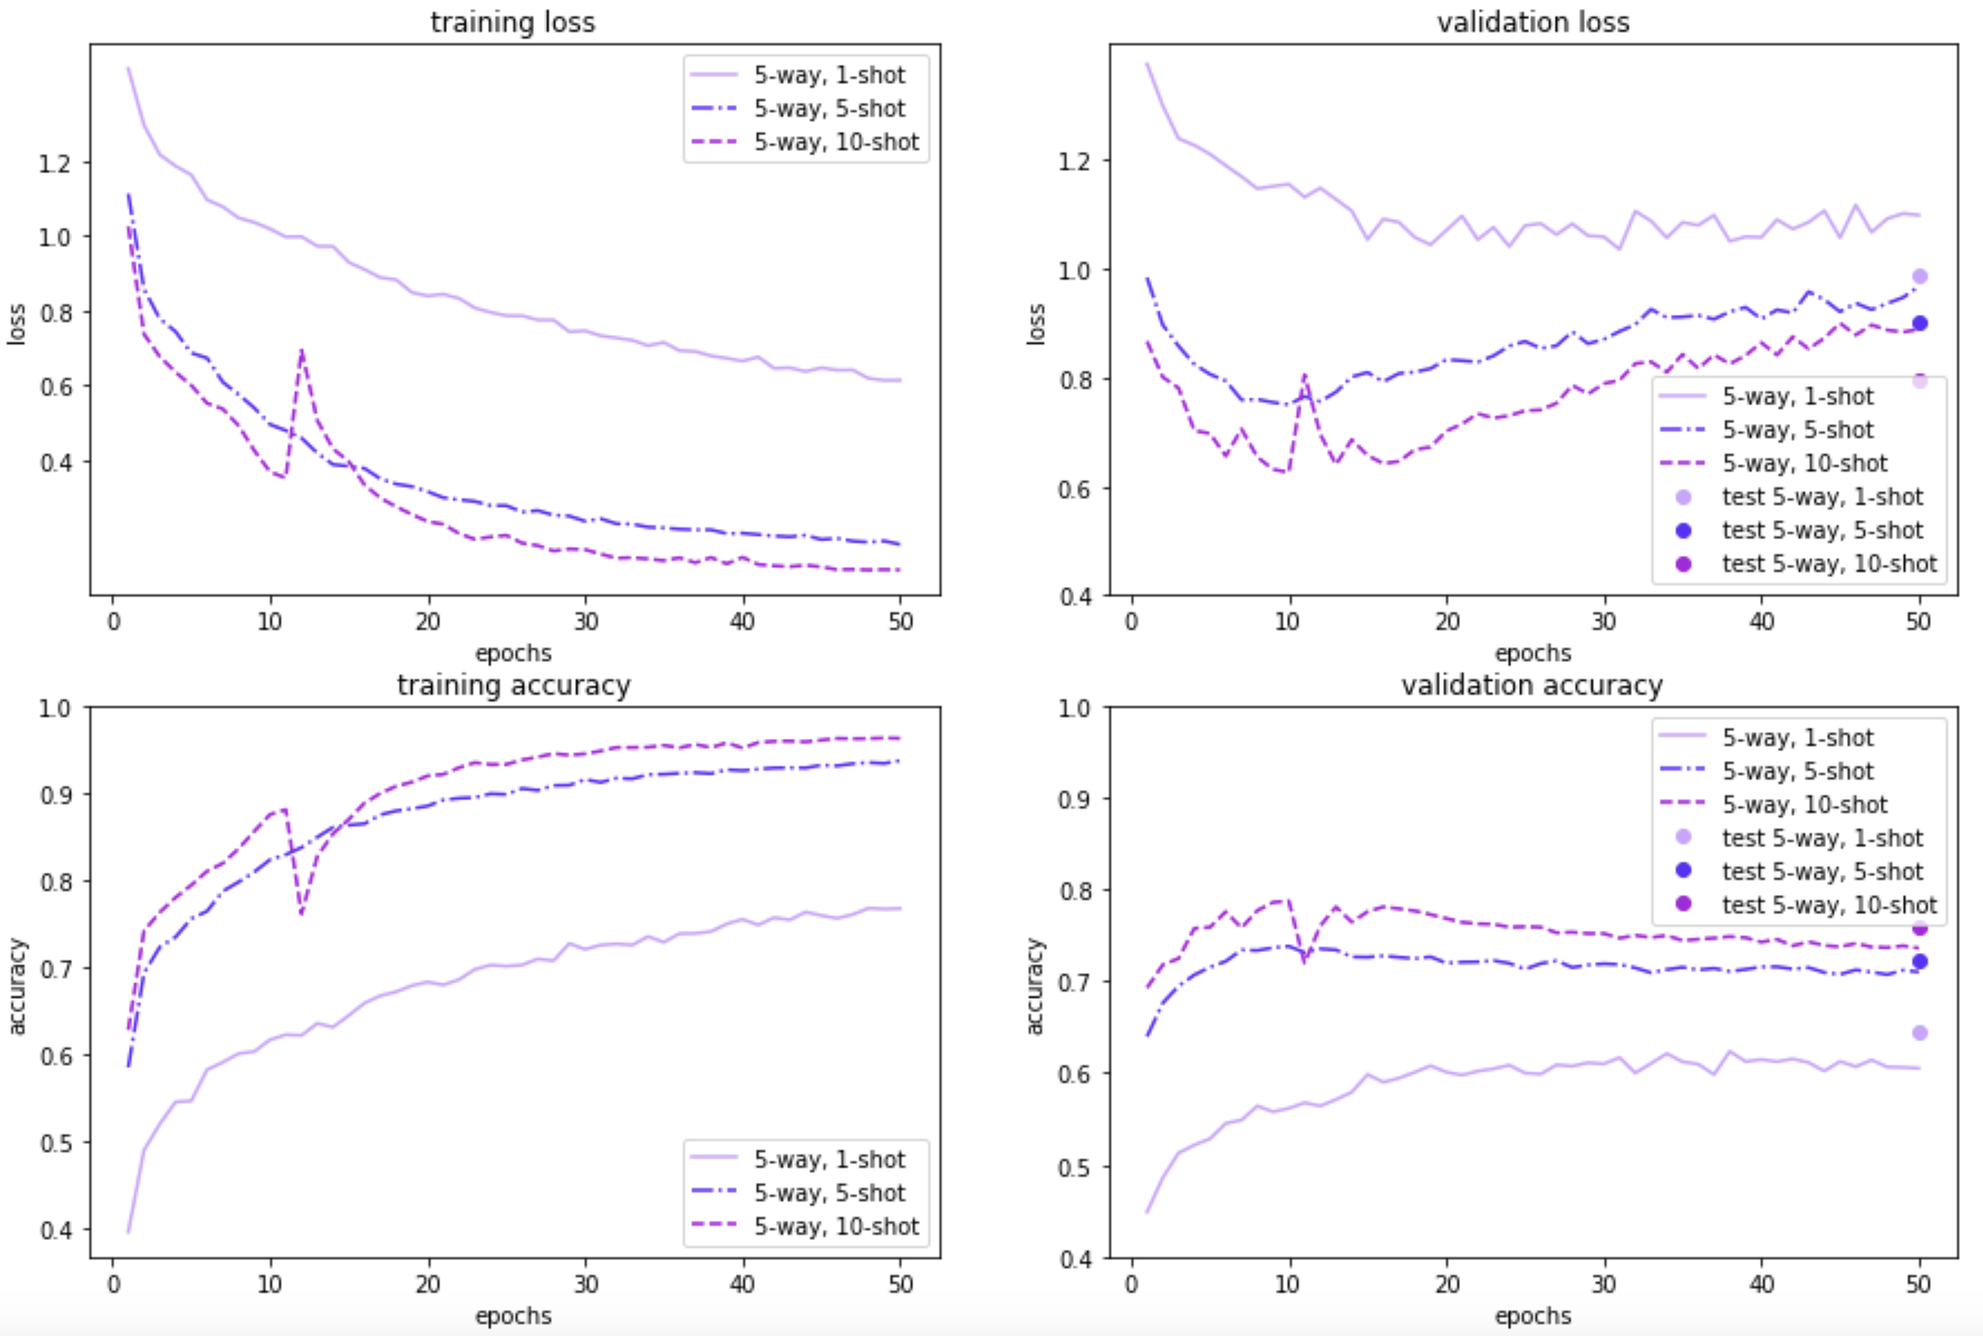
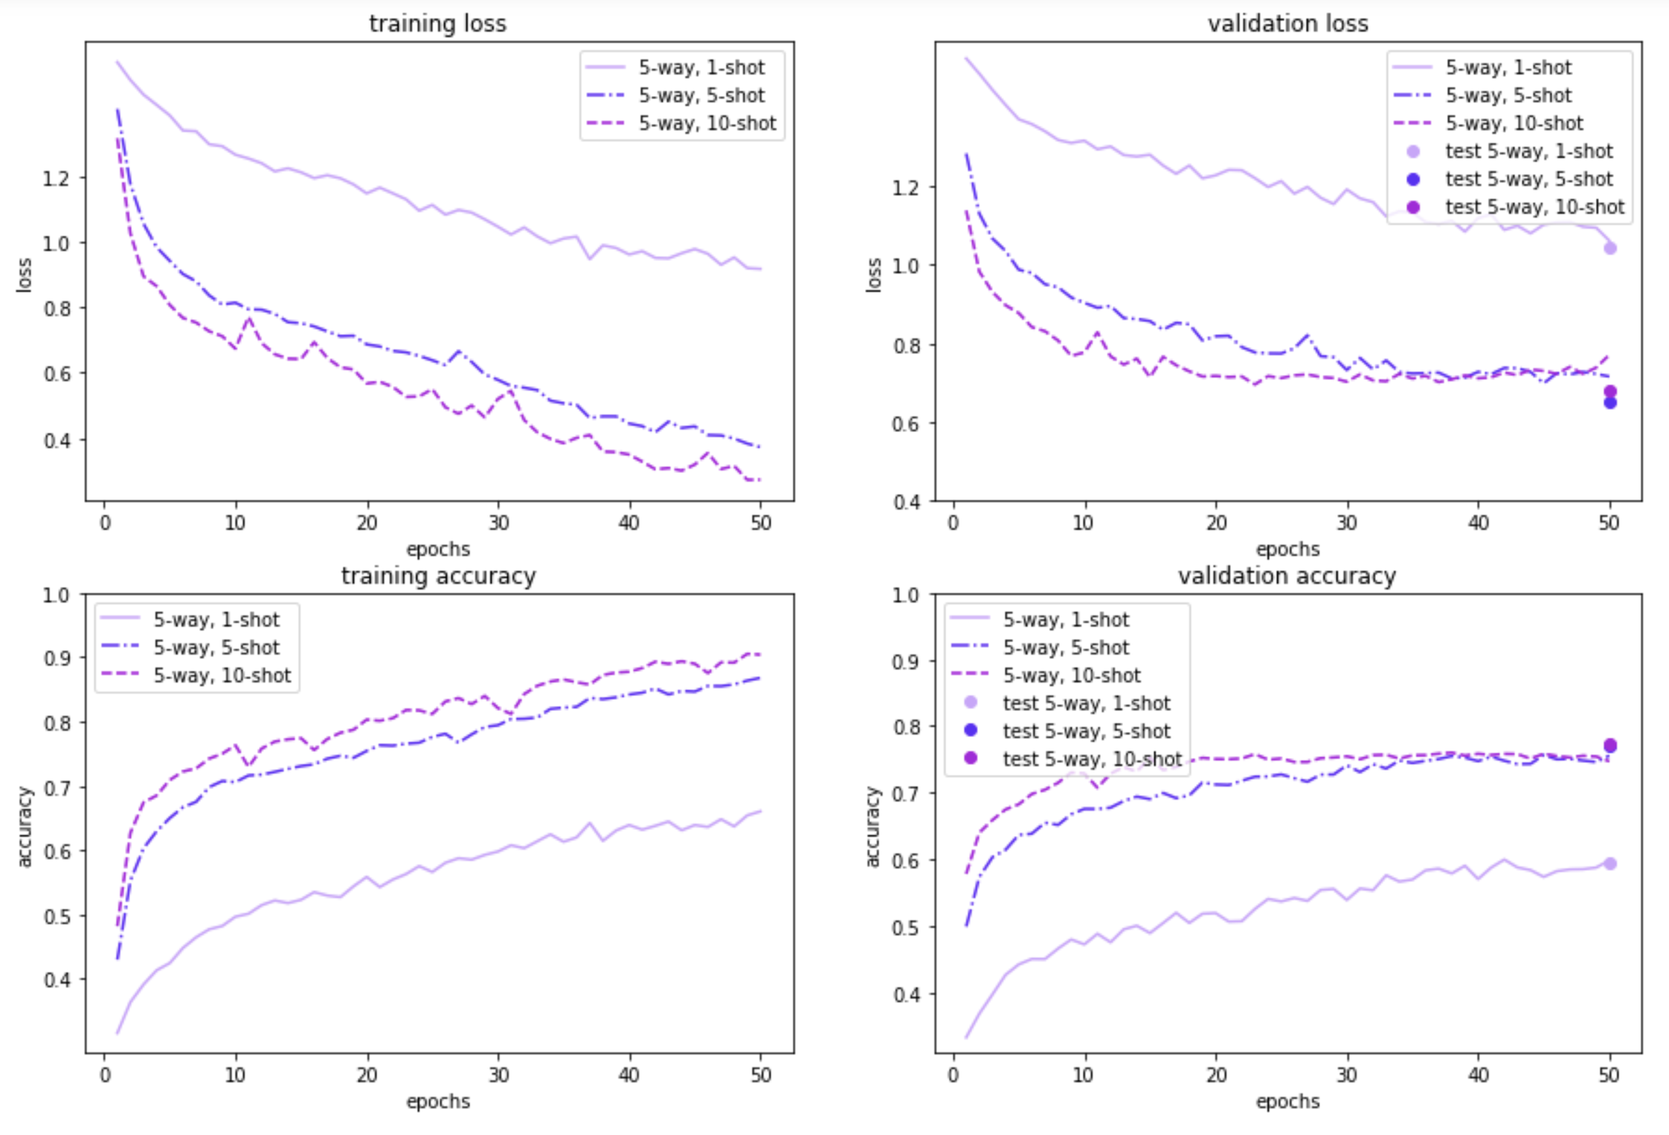
experiment chapter edited

diff --git a/out/index.html b/out/index.html
@@ -591,7 +591,7 @@ h2 {
 <p><em>This is an applied research report by <a href="https://www.cloudera.com/products/fast-forward-labs-research.html">Cloudera Fast Forward</a>. We write reports about emerging technologies. Read our full report on meta-learning below or <a href="/FF15-Meta-Learning-Cloudera_Fast_Forward.pdf" target="_blank" id="report-pdf-download">download the PDF</a>.</em></p>
 <p><div class="table-of-contents"><div id="toc-header" style="display: flex; font-weight: bold; text-transform: uppercase;">
      <div><button id="toggle_contents" style="padding-left: 0.5ch; padding-right: 0.5ch; cursor: pointer; position: relative; top: -1px;">☰</button><span id="contents-label" style="margin-left: 0;"> Contents</span></div>
-  </div><ul><li><a href="#introduction">Introduction</a><ul><li><a href="#why-should-we-care%3F">Why should we care?</a></li><li><a href="#why-now%3F">Why now?</a></li></ul></li><li><a href="#framing-the-problem">Framing the problem</a></li><li><a href="#solving-the-problem">Solving the problem</a><ul><li><a href="#data-set-up">Data set-up</a></li><li><a href="#meta-learning%3A-learning-to-learn">Meta-learning: learning to learn</a></li><li><a href="#model-agnostic-meta-learning-(maml)">Model Agnostic Meta-learning (MAML)</a></li></ul></li><li><a href="#experiment">Experiment</a><ul><li><a href="#dataset">Dataset</a></li><li><a href="#set-up">Set-up</a></li><li><a href="#results">Results</a></li></ul></li><li><a href="#challenges-and-ways-to-overcome">Challenges and ways to overcome</a></li><li><a href="#ethics">Ethics</a></li><li><a href="#moving-forward">Moving forward</a></li></ul></div></p>
+  </div><ul><li><a href="#introduction">Introduction</a><ul><li><a href="#why-should-we-care%3F">Why should we care?</a></li><li><a href="#why-now%3F">Why now?</a></li></ul></li><li><a href="#framing-the-problem">Framing the problem</a></li><li><a href="#solving-the-problem">Solving the problem</a><ul><li><a href="#data-set-up">Data set-up</a></li><li><a href="#meta-learning%3A-learning-to-learn">Meta-learning: learning to learn</a></li><li><a href="#model-agnostic-meta-learning-(maml)">Model Agnostic Meta-learning (MAML)</a></li></ul></li><li><a href="#experiment">Experiment</a><ul><li><a href="#dataset">Dataset</a></li><li><a href="#set-up">Set-up</a></li><li><a href="#results">Results</a></li></ul></li><li><a href="#challenges-and-ways-to-overcome">Challenges and ways to overcome</a></li><li><a href="#ethics">Ethics</a></li><li><a href="#moving-forward">Moving forward</a><ul><li><a href="#author%E2%80%99s-note">Author’s note</a></li></ul></li></ul></div></p>
 <p><em>In early spring of 2019, we researched approaches that would allow a machine learning practitioner to perform supervised learning with only a
 limited number of examples available during training. This search led us to a new paradigm: meta-learning, in which an algorithm not only learns
 from a handful of examples, but also learns to classify novel classes during model inference. We decided to focus our research report—<a href="https://blog.fastforwardlabs.com/2019/04/02/a-guide-to-learning-with-limited-labeled-data.html">Learning
@@ -757,34 +757,34 @@ mostly used for hyper-parameter tuning, and the meta-test set measured the gener
 <h3 id="set-up">Set-up</h3>
 <p>We evaluated the MAML approach on 5-way 1/5/10-shot and 10-way 1/5/10-shot settings for the Quick, Draw! dataset. An experiment on each of the
 100-sample and 20-sample datasets consisted of training for 50 epochs with each epoch consisting of 100 batches of tasks, where a task’s batch
-size was 25. At the end of an epoch, we evaluated the model performance on the meta-validation dataset. At the end of 50 epochs, we evaluated the
+size was 25 for 100-sample and 10 for 20-sample datasets. At the end of an epoch, we evaluated the model performance on the meta-validation dataset. At the end of 50 epochs, we evaluated the
 model on the meta-test dataset.</p>
 <figure><img src="figures/9.png" alt="Figure 9: 5-way, 1-shot episode example"><figcaption>Figure 9: 5-way, 1-shot episode example</figcaption></figure>
 <p>&lt;&lt;to-do: fix model architecture&gt;&gt;</p>
-<p>In terms of model architecture, we used a network with 4 hidden layers—with sizes 28, 207, 20, 20, each including batch normalization and
-ReLU nonlinearities, followed by a linear layer and softmax. For all models, the loss function was the cross-entropy error between the
-predicted and true labels.</p>
-<p>The models were trained using an SGD optimizer with a learning rate of 0.001, an inner learning rate of 0.01 for the adaptation process,
-a step size (that is, number of gradient steps) of 5, and a task batch size of 25. All the hyper-parameters were the same for all the models,
-for a consistent comparison.</p>
+<p>In terms of model architecture, we used a network with 4 convolution layers—with size 20 channels in the intermediate representations, each
+including batch normalization and ReLU nonlinearities, followed by a linear layer. For all models, the loss function was the cross-entropy error between the predicted and true labels.</p>
+<p>The models for the 100-sample dataset were trained using an SGD optimizer with a learning rate of 0.001, an inner learning rate of 0.01 for the
+adaptation process, a step size (that is, number of gradient steps) of 5, and a task batch size of 25. All the hyper-parameters were the same for
+all the models, for a consistent comparison. While the models for the 20-sample dataset were trained with a slightly lower learning rate of 0.0005, an inner learning rate of 0.005,  a task batch size of 10 along with the rest of the parameters were same as the 100-sample dataset.</p>
 <h3 id="results">Results</h3>
 <p>&lt;&lt;to-do: update result images, and also update 20 sample runs and corresponding sentences&gt;&gt;</p>
 <p>The figures below illustrate how MAML performs on the 100- and 20-item randomly sampled versions of the Quick, Draw! dataset, for a 5-way or a
-10-way classification few-shot problem, with a varying number of examples per class. As expected, the model performance on the blind meta-test set
-is better when the model is trained on a 100-sample subset instead of using just 20 samples. Further, 5-way classification yields better results
+10-way classification few-shot problem, with a varying number of examples per class. As expected, the model performance on the both the
+meta-validation and meta-test set is better when the model is trained on a 100-sample subset instead of using just 20 samples. Further,
+5-way classification yields better results
 than 10-way classification— which is to be expected, given that 5-way classification is an easier task than 10-way classification. Also, as the
-number of shots/examples per class increase, we see better performance during validation and test time. The validation results for both 5-way and
-10-way 1/5/10-shot learning based on 20 samples show some overfitting issues after some epochs. This could likely be fixed with altering learning
-rates, but we left them as is for easy comparison to the 100-sample dataset results.</p>
+number of shots/examples per class increase, we see better performance during validation and test time. The validation results for 5-way
+1/5/10-shot learning based on 20 samples look promising too. In the 10-way learning based on 20-samples we see some overfitting after a few epochs and may want to restrain the model by stopping early. That said, we have left them as is for easy comparison with the rest of the experiment results.</p>
 <figure><img src="figures/10.png" alt="Figure 10. 5-way, 1/5/10-shot results based on 100 random sampled images"><figcaption>Figure 10. 5-way, 1/5/10-shot results based on 100 random sampled images</figcaption></figure>
 <figure><img src="figures/11.png" alt="Figure 11. 10-way, 1/5/10-shot results based on 100 random sampled images"><figcaption>Figure 11. 10-way, 1/5/10-shot results based on 100 random sampled images</figcaption></figure>
 <figure><img src="figures/12.png" alt="Figure 12. 5-way, 1/5/10-shot results based on 20 random sampled images"><figcaption>Figure 12. 5-way, 1/5/10-shot results based on 20 random sampled images</figcaption></figure>
 <figure><img src="figures/13.png" alt="Figure 13. 10-way, 1/5/10-shot results based on 20 random sampled images"><figcaption>Figure 13. 10-way, 1/5/10-shot results based on 20 random sampled images</figcaption></figure>
+<figure><img src="figures/14.png" alt="Figure 14. Meta-test dataset results"><figcaption>Figure 14. Meta-test dataset results</figcaption></figure>
 <p>Our results demonstrate that the MAML approach is beneficial for learning with only a few examples. In the 100 randomly sampled images scenario,
-the 5-way classification task gives an accuracy of over 60% with just one example on the validation and test datasets. The model performance is
-even better with additional examples; for both 5 examples and 10 examples per class, accuracy shoots up to 80%. As expected, for the 10-way
-classification task, the results are lower (by around 10%) but still promising, which suggests the applicability of the approach for fast
-adaptive learning. &lt;&lt;Todo: add a sentence for 20 random sample scenario&gt;&gt;</p>
+the 5-way classification task gives an accuracy of around 68% with just one example. The model performance is
+even better with additional examples; for both 5 examples and 10 examples per class, accuracy shoots over 80%. As expected, for the 10-way
+classification task, the results are lower (by around 10-15%) but still promising.</p>
+<p>For the 20-random sample scenario and a more realistic one from a meta-learning point of view, the 5-way results are still pretty good ~60% accuracy with just one example. The 10-way classification results are lower similar to the 100-sample dataset. Nonetheless, overall the results are promising even with minimal tuning and suggests the applicability of the approach for fast adaptive learning.</p>
 <h2 id="challenges-and-ways-to-overcome">Challenges and ways to overcome</h2>
 <p>The MAML approach fine-tunes its model using gradient descent each time for a new task. This requires it to backpropagate the meta-loss through
 the model’s gradients, which involves computing derivatives of derivatives, i.e., second derivatives. While the gradient descent at test time helps it extrapolate better, it does have its costs.</p>
@@ -814,7 +814,7 @@ as well as the various approaches in this area, how we defined an episode was pr
 <p>In real world scenarios, it’s often likely that we’ll have lots of unlabeled data. In such circumstances, is it possible to employ meta-learning algorithms to leverage these unlabeled datasets? The authors of one research paper<sup class="footnote-ref"><a href="#fn19" id="fnref19">[19]</a></sup> propose a solution to this by augmenting a metric-based meta-learning approach to leverage unlabeled examples. In addition to the support set and the query set, the episode includes an unlabeled set. This unlabeled set may or may not contain examples from the support set classes. The idea is to use the labeled examples from the support set and the unlabeled examples within each episode to generalize for a good performance on the corresponding query set. Experiments show an improvement in model performance in some cases.</p>
 <p>Another interesting idea that’s being explored is at the crossroads of active learning<sup class="footnote-ref"><a href="#fn20" id="fnref20">[20]</a></sup> and meta-learning. The field of active learning takes advantage of machine learning in collaboration with humans, selecting examples from vast pools of unlabeled data and requesting labels for them. At times, these examples are chosen based on how uncertain the model is about its predicted label, or by how “different” it is than the rest, etc.—with the ultimate aim to improve model performance. Since there are fewer labeled training examples to begin with, one could employ meta-learning approaches in such a scenario; for instance, a metric-based approach has been discussed for batch-mode active learning.<sup class="footnote-ref"><a href="#fn21" id="fnref21">[21]</a></sup> (It is also possible to learn a label acquisition strategy instead.)<sup class="footnote-ref"><a href="#fn22" id="fnref22">[22]</a></sup></p>
 <p>Over the coming years, we will see additional approaches that will make meta-learning even more adoptable in real world scenarios; whether it’s using meta-learning successfully on heterogeneous data or leveraging unlabeled data, these approaches will make learning and generalizing with fewer labeled examples possible. As previously mentioned,  we will continue to see research that simplifies both the training and inference process. These advances will allow machine learning practitioners to develop even more new ways of designing machine learning systems.</p>
-<h4 id="author%E2%80%99s-note">Author’s note</h4>
+<h3 id="author%E2%80%99s-note">Author’s note</h3>
 <p>Thank you so much for reading this article. This work has been deeply influenced by the work of <a href="https://ai.stanford.edu/~cbfinn/">Professor Chelsea Finn</a>. Also, the torch-meta library, along with its demo examples, made it easier to understand and showcase meta-learning.</p>
 <hr class="footnotes-sep">
 <section class="footnotes">

diff --git a/src/04-experiment.md b/src/04-experiment.md
@@ -22,32 +22,27 @@ mostly used for hyper-parameter tuning, and the meta-test set measured the gener
 
 We evaluated the MAML approach on 5-way 1/5/10-shot and 10-way 1/5/10-shot settings for the Quick, Draw! dataset. An experiment on each of the 
 100-sample and 20-sample datasets consisted of training for 50 epochs with each epoch consisting of 100 batches of tasks, where a task’s batch 
-size was 25. At the end of an epoch, we evaluated the model performance on the meta-validation dataset. At the end of 50 epochs, we evaluated the 
+size was 25 for 100-sample and 10 for 20-sample datasets. At the end of an epoch, we evaluated the model performance on the meta-validation dataset. At the end of 50 epochs, we evaluated the 
 model on the meta-test dataset.
 
 ![Figure 9: 5-way, 1-shot episode example](figures/9.png)
 
-<<to-do: fix model architecture>>
+In terms of model architecture, we used a network with 4 convolution layers—with size 20 channels in the intermediate representations, each 
+including batch normalization and ReLU nonlinearities, followed by a linear layer. For all models, the loss function was the cross-entropy error between the predicted and true labels.
 
-In terms of model architecture, we used a network with 4 hidden layers—with sizes 28, 207, 20, 20, each including batch normalization and 
-ReLU nonlinearities, followed by a linear layer and softmax. For all models, the loss function was the cross-entropy error between the 
-predicted and true labels.
-
-The models were trained using an SGD optimizer with a learning rate of 0.001, an inner learning rate of 0.01 for the adaptation process, 
-a step size (that is, number of gradient steps) of 5, and a task batch size of 25. All the hyper-parameters were the same for all the models, 
-for a consistent comparison.
+The models for the 100-sample dataset were trained using an SGD optimizer with a learning rate of 0.001, an inner learning rate of 0.01 for the 
+adaptation process, a step size (that is, number of gradient steps) of 5, and a task batch size of 25. All the hyper-parameters were the same for 
+all the models, for a consistent comparison. While the models for the 20-sample dataset were trained with a slightly lower learning rate of 0.0005, an inner learning rate of 0.005,  a task batch size of 10 along with the rest of the parameters were same as the 100-sample dataset.
 
 ### Results
 
-<<to-do: update result images, and also update 20 sample runs and corresponding sentences>>
-
 The figures below illustrate how MAML performs on the 100- and 20-item randomly sampled versions of the Quick, Draw! dataset, for a 5-way or a 
-10-way classification few-shot problem, with a varying number of examples per class. As expected, the model performance on the blind meta-test set 
-is better when the model is trained on a 100-sample subset instead of using just 20 samples. Further, 5-way classification yields better results 
+10-way classification few-shot problem, with a varying number of examples per class. As expected, the model performance on the both the 
+meta-validation and meta-test set is better when the model is trained on a 100-sample subset instead of using just 20 samples. Further, 
+5-way classification yields better results 
 than 10-way classification— which is to be expected, given that 5-way classification is an easier task than 10-way classification. Also, as the 
-number of shots/examples per class increase, we see better performance during validation and test time. The validation results for both 5-way and 
-10-way 1/5/10-shot learning based on 20 samples show some overfitting issues after some epochs. This could likely be fixed with altering learning 
-rates, but we left them as is for easy comparison to the 100-sample dataset results. 
+number of shots/examples per class increase, we see better performance during validation and test time. The validation results for 5-way 
+1/5/10-shot learning based on 20 samples look promising too. In the 10-way learning based on 20-samples we see some overfitting after a few epochs and may want to restrain the model by stopping early. That said, we have left them as is for easy comparison with the rest of the experiment results.
 
 ![Figure 10. 5-way, 1/5/10-shot results based on 100 random sampled images](figures/10.png)
 
@@ -57,14 +52,11 @@ rates, but we left them as is for easy comparison to the 100-sample dataset resu
 
 ![Figure 13. 10-way, 1/5/10-shot results based on 20 random sampled images](figures/13.png)
 
+![Figure 14. Meta-test dataset results](figures/14.png)
+
 Our results demonstrate that the MAML approach is beneficial for learning with only a few examples. In the 100 randomly sampled images scenario, 
-the 5-way classification task gives an accuracy of over 60% with just one example on the validation and test datasets. The model performance is 
-even better with additional examples; for both 5 examples and 10 examples per class, accuracy shoots up to 80%. As expected, for the 10-way 
-classification task, the results are lower (by around 10%) but still promising, which suggests the applicability of the approach for fast 
-adaptive learning. <<Todo: add a sentence for 20 random sample scenario>>
+the 5-way classification task gives an accuracy of around 68% with just one example. The model performance is 
+even better with additional examples; for both 5 examples and 10 examples per class, accuracy shoots over 80%. As expected, for the 10-way 
+classification task, the results are lower (by around 10-15%) but still promising. 
 
-
-
-
-
-
+For the 20-random sample scenario and a more realistic one from a meta-learning point of view, the 5-way results are still pretty good ~60% accuracy with just one example. The 10-way classification results are lower similar to the 100-sample dataset. Nonetheless, overall the results are promising even with minimal tuning and suggests the applicability of the approach for fast adaptive learning.

diff --git a/src/07-moving-forward.md b/src/07-moving-forward.md
@@ -16,7 +16,7 @@ Another interesting idea that’s being explored is at the crossroads of active 
 
 Over the coming years, we will see additional approaches that will make meta-learning even more adoptable in real world scenarios; whether it’s using meta-learning successfully on heterogeneous data or leveraging unlabeled data, these approaches will make learning and generalizing with fewer labeled examples possible. As previously mentioned,  we will continue to see research that simplifies both the training and inference process. These advances will allow machine learning practitioners to develop even more new ways of designing machine learning systems.
 
-#### Author’s note
+### Author’s note
 
 Thank you so much for reading this article. This work has been deeply influenced by the work of [Professor Chelsea Finn](https://ai.stanford.edu/~cbfinn/). Also, the torch-meta library, along with its demo examples, made it easier to understand and showcase meta-learning.
 
